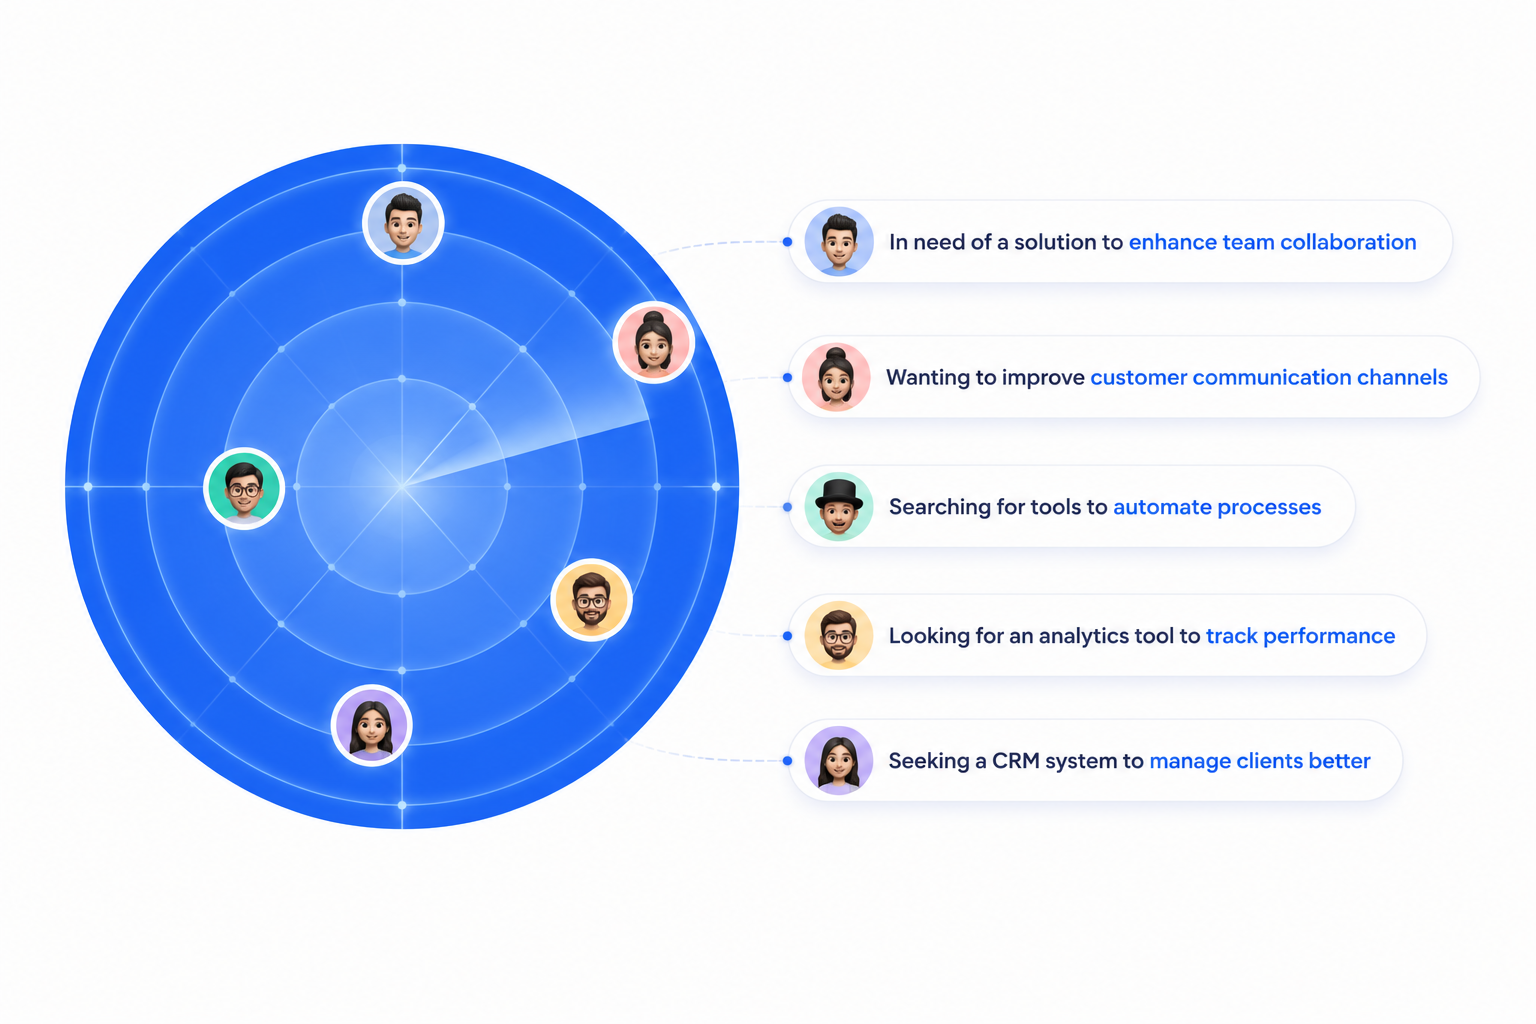
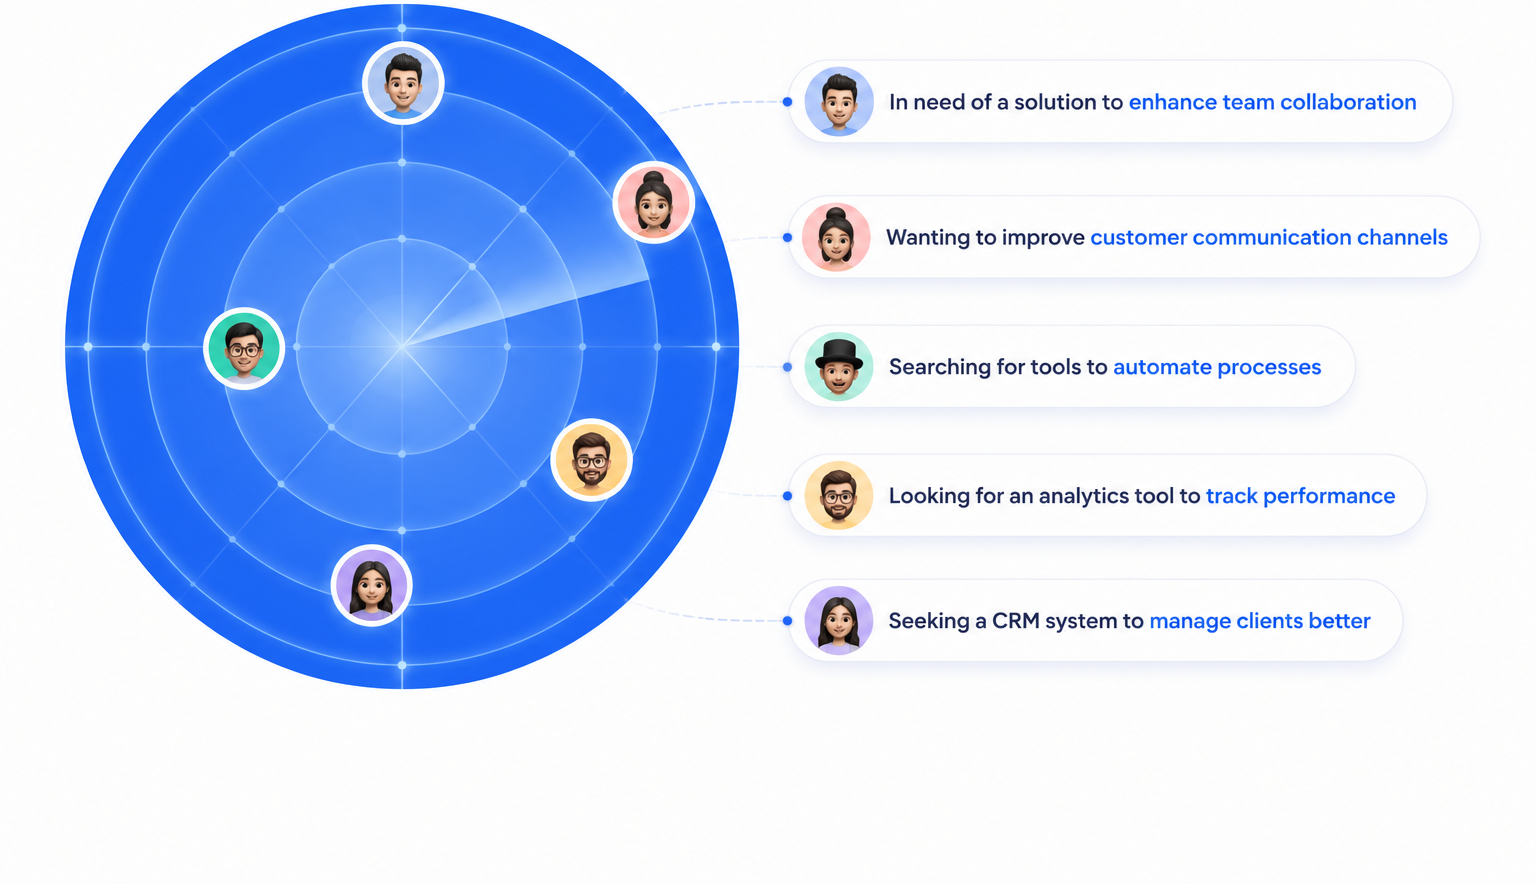
Crop empty top margin off the intent radar image
The source PNG had ~150px of blank space above the radar circle,
leaving a large empty gap under the section header on the live site.

Changed region(s): [[0.0312, 0.0, 0.9375, 0.8247], [0.5, 0.0611, 0.9375, 0.1527]]

diff --git a/src/components/intent-radar.tsx b/src/components/intent-radar.tsx
@@ -11,7 +11,7 @@ export function IntentRadar() {
     >
       <div
         className="relative mx-auto w-full max-w-6xl overflow-hidden rounded-3xl"
-        style={{ aspectRatio: "1536 / 1024" }}
+        style={{ aspectRatio: "1536 / 884" }}
       >
         <Image
           src="/banners/intent-radar.png"
